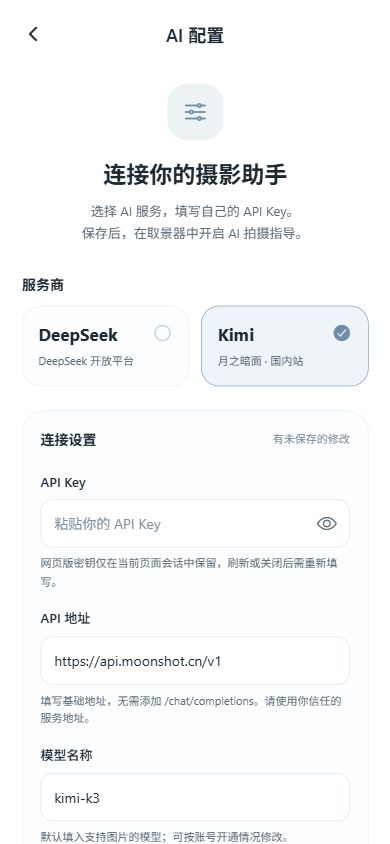
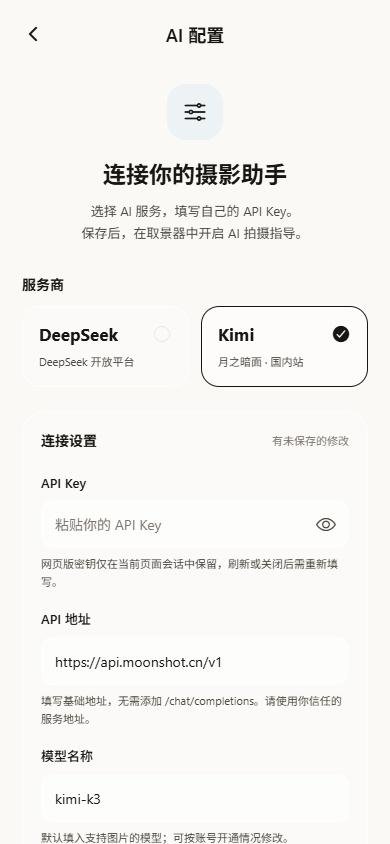
docs: refresh app UI preview screenshots and descriptions in README

diff --git a/README.md b/README.md
@@ -49,9 +49,24 @@ Drama 是一个基于 **Expo + React Native** 的 AI 摄影指导应用，优先
     <td align="center"><img src="docs/images/profile.jpg" alt="个人页面" width="260" /></td>
   </tr>
   <tr>
-    <td align="center"><sub>选择模式与风格，开启相机权限</sub></td>
-    <td align="center"><sub>选择服务商，填写 API Key</sub></td>
-    <td align="center"><sub>个人中心与 AI 配置入口</sub></td>
+    <td align="center"><sub>电影画质导引，探索光影灵感与开启相机</sub></td>
+    <td align="center"><sub>选择服务商（Kimi / DeepSeek），填写 API Key</sub></td>
+    <td align="center"><sub>创作者主页、拍摄统计与 AI 配置入口</sub></td>
+  </tr>
+</table>
+
+<table>
+  <tr>
+    <th align="center">✨ 灵感广场</th>
+    <th align="center">🖼 拍摄相册</th>
+  </tr>
+  <tr>
+    <td align="center"><img src="docs/images/inspiration.jpg" alt="Drama 灵感页面" width="260" /></td>
+    <td align="center"><img src="docs/images/album.jpg" alt="Drama 相册页面" width="260" /></td>
+  </tr>
+  <tr>
+    <td align="center"><sub>精选光影灵感与多场景构图预设</sub></td>
+    <td align="center"><sub>拍摄作品画廊、胶片参数与质感微调</sub></td>
   </tr>
 </table>
 
@@ -147,7 +162,7 @@ flowchart LR
 
 <div align="center">
 <img src="docs/images/home.jpg" alt="拍摄首页" width="280" />
-<p><sub>取景器页面：选择模式与风格，点击「开启相机」</sub></p>
+<p><sub>拍摄首页：浏览光影与风格预设，点击「开启相机」进入取景器</sub></p>
 </div>
 
 1. 允许相机权限，进入取景器，选择人像、风景或夜景。

diff --git a/docs/images/README.md b/docs/images/README.md
@@ -7,6 +7,8 @@
 | [home.jpg](home.jpg) | 拍摄首页，尚未授予相机权限 |
 | [ai-config.jpg](ai-config.jpg) | AI 配置页，选择 Kimi，API Key 留空 |
 | [profile.jpg](profile.jpg) | 「我的」页面与 AI 配置入口 |
+| [inspiration.jpg](inspiration.jpg) | 灵感页面，构图与光影灵感探索 |
+| [album.jpg](album.jpg) | 相册页面，精选作品与时光画廊 |
 
 截图未输入真实密钥，未发起模型请求，也未访问摄像头。首页横幅是项目已有的功能展示素材；截图中的部分卡片仍为展示内容，功能支持情况以根目录 README 为准。
 
